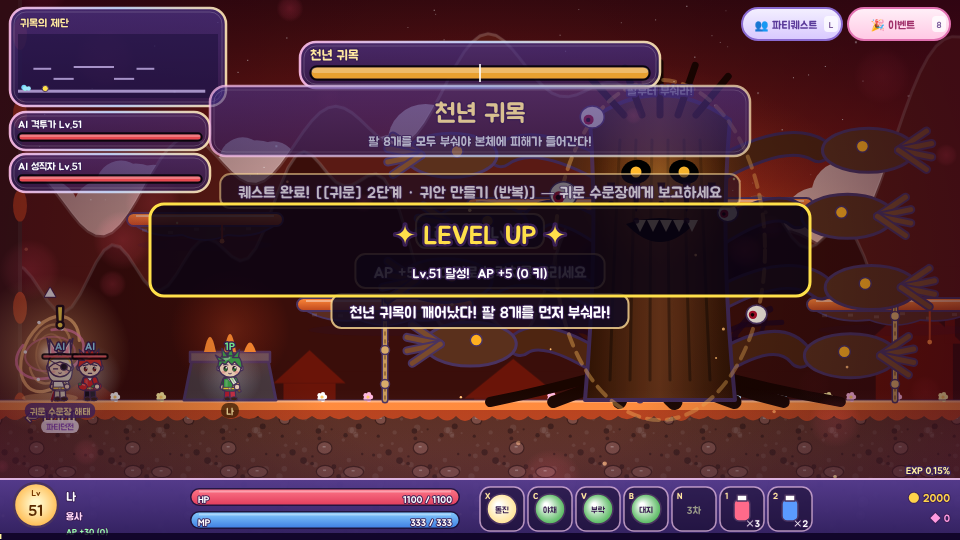
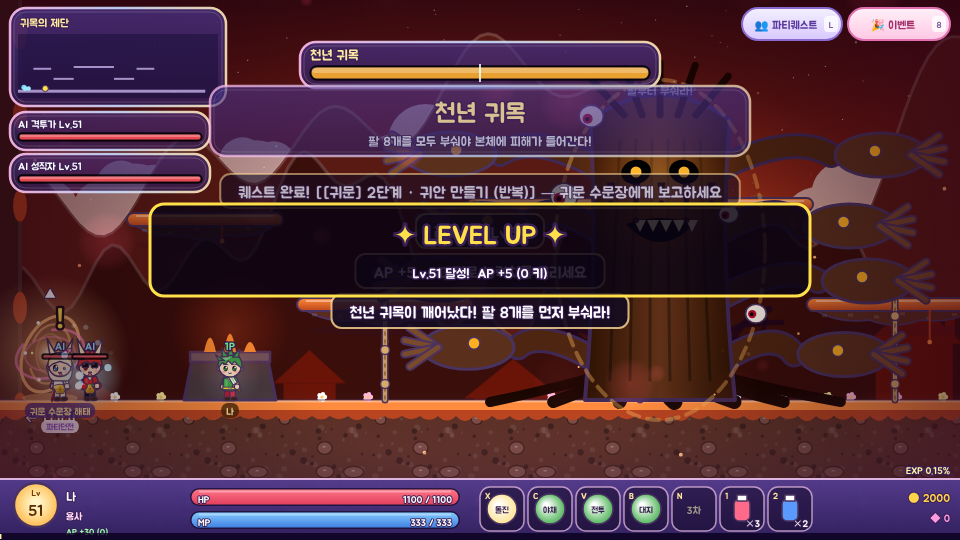
feat(party): 직업 상호작용 — 겹쳐지는 파티 버프(전투 함성·매의 눈·수호 오라·마나 축복·바람걸음), 소환수(거너 팝콘 포탑·성직자 수호 정령), 온라인 파티 코드(같은 맵 파티원 버프·힐 전달, 경험치 +15%/명, 처치 경험치 25% 나눔), 파티 HUD
Claude-Session: https://claude.ai/code/session_017L5bMY4jqJu3Rbzbdg4ZwK

diff --git a/index.html b/index.html
@@ -5937,4 +5937,107 @@ function fixReach(L){
   return L;
 }
 for(const k of Object.keys(MAPS)){const f=MAPS[k];MAPS[k]=function(){return fixReach(f.apply(this,arguments))}}
+/* ============================================================
+   PARTY : 직업 간 상호작용 — 파티 버프(겹쳐짐) · 소환수(거너 포탑 / 성직자 수호 정령)
+           온라인 파티(파티 코드) : 같은 맵 파티원에게 버프·힐 전달, 경험치 보너스, 처치 경험치 나눔
+   ============================================================ */
+/* ---------- 스킬 재설계 : 서로 필요한 직업 ---------- */
+Object.assign(JOB.warrior.sk[2],{n:'전투 함성',party:1,atk:1.35,spd:1.1,def:0,dur:12,mp:36,cd:26,desc:'파티 공격력 +35%'});
+Object.assign(JOB.archer.sk[2],{n:'매의 눈',party:1,atk:1.25,spd:1.15,dur:12,mp:32,cd:24,desc:'파티 공격력 +25% · 공속/이속 +15%'});
+Object.assign(JOB.guardian.sk[2],{n:'수호 오라',party:1,atk:1.1,spd:1,def:.4,dur:12,mp:36,cd:26,desc:'파티 받는 피해 -40%'});
+Object.assign(JOB.mage.sk[2],{n:'마나 축복',party:1,atk:1.2,spd:1,mpr:5,dur:14,mp:30,cd:26,desc:'파티 MP 회복 +5/초 · 공격력 +20%'});
+Object.assign(JOB.rogue.sk[2],{n:'바람걸음',party:1,atk:1.15,spd:1.3,def:.1,dur:12,mp:30,cd:24,desc:'파티 이동속도 +30%'});
+Object.assign(JOB.fighter.sk[2],{desc:'자신 공격력 +60% (파티 버프와 겹쳐짐)'});
+JOB.gunner.sk[2]={n:'팝콘 포탑',k:'summon',kind:'turret',dur:20,m:.75,int:.45,range:440,mp:30,cd:22,desc:'20초 동안 자동 사격하는 포탑 설치'};
+JOB.priest.sk[3]={n:'수호 정령',k:'summon',kind:'spirit',dur:24,m:1.0,int:.9,range:400,heal:.06,mp:36,cd:26,desc:'따라다니며 공격 · 2초마다 파티 회복'};
+
+/* ---------- 겹쳐지는 버프 ---------- */
+function addBuff(q,key,b,from){
+  q.buffs=q.buffs||{};q.buffs[key]={atk:b.atk||1,spd:b.spd||1,def:b.def||0,mpr:b.mpr||0,t:b.dur||10,n:b.n||'',from:from||''};
+  S.fx.push({k:'ring',x:q.x,y:q.y-20,r:60,t:0,max:.45,col:'#ffd34a'});spark(q.x,q.y-30,10,'#ffe9a0',160,.4,3,0,true);
+}
+function buffStep(dt){
+  for(const p of PARTY){if(!p.buffs)continue;let a=1,s=1,d=0,m=0,t=0,n=0;
+    for(const k in p.buffs){const b=p.buffs[k];b.t-=dt;if(b.t<=0||p.dead){delete p.buffs[k];continue}a*=b.atk;s*=b.spd;d+=b.def;m+=b.mpr;t=Math.max(t,b.t);n++}
+    if(n)p.buff={atk:a,spd:s,def:Math.min(.6,d),mpr:m,t,combo:1};else if(p.buff&&p.buff.combo)p.buff=null}
+}
+const onlineParty=()=>{if(!EVPT||!S)return[];const o=[];for(const k in PEERS){const q=PEERS[k];if(q.tg.pt===EVPT&&q.tg.map===S.id)o.push(Object.assign({id:k},q))}return o};
+SKX.buff=function(p,sk){
+  sfx('skill');ftext(p.x,p.y-96,sk.n,'#ffe9a0',15,.9);
+  const b={atk:sk.atk,spd:sk.spd,def:sk.def,mpr:sk.mpr,dur:sk.dur,n:sk.n};
+  const tg=sk.party?PARTY.filter(q=>!q.dead&&(!S.L.pvp||q.team===p.team)&&Math.hypot(q.x-p.x,q.y-p.y)<700):[p];
+  for(const q of tg)addBuff(q,p.job+':'+sk.n,b,p===q?'':JOB[p.job].role);
+  if(sk.party&&p===PARTY[0]&&onlineParty().length){wsSend({t:'pb',b,k:p.job+':'+sk.n,x:p.x,y:p.y});ftext(p.x,p.y-116,'🌐 파티 버프!','#9affc0',13,1)}
+};
+/* ---------- 소환수 ---------- */
+let SUMS=[];
+SKX.summon=function(p,sk){
+  sfx('skill');ftext(p.x,p.y-96,sk.n,'#ffe9a0',15,.9);
+  SUMS=SUMS.filter(s=>!(s.owner===p&&s.kind===sk.kind));
+  const s={owner:p,kind:sk.kind,sk,x:p.x+p.face*46,y:sk.kind==='turret'?p.y:p.y-70,t:sk.dur,cd:.3,hcd:2,face:p.face,ph:Math.random()*6};
+  SUMS.push(s);spark(s.x,s.y-20,24,sk.kind==='turret'?'#ffd34a':'#fff7c0',220,.5,4,0,true);S.fx.push({k:'ring',x:s.x,y:s.y-16,r:70,t:0,max:.4,col:'#fff'});
+};
+function sumStep(dt){
+  if(!SUMS.length)return;
+  for(const s of SUMS){const p=s.owner;s.t-=dt;s.cd-=dt;s.hcd-=dt;
+    if(s.kind==='spirit'){const tx=p.x-p.face*40,ty=p.y-74+Math.sin(G.t*3+s.ph)*6;s.x+=(tx-s.x)*Math.min(1,dt*4);s.y+=(ty-s.y)*Math.min(1,dt*4);s.face=p.face}
+    // 공격
+    if(s.cd<=0){let best=null,bd=s.sk.range;eachTarget(t=>{const r=rectOf(t),d=Math.hypot(r.x+r.w/2-s.x,r.y+r.h/2-(s.y-20));if(d<bd&&!t.dead&&t.type!=='peer'){bd=d;best=t}},p);
+      if(best){s.cd=s.sk.int;const r=rectOf(best),dx=r.x+r.w/2-s.x,dy=r.y+r.h/2-(s.y-22),L=Math.hypot(dx,dy)||1,sp=760;s.face=dx>0?1:-1;
+        S.pshots.push({owner:p,x:s.x+s.face*14,y:s.y-22,vx:dx/L*sp,vy:dy/L*sp,w:16,h:16,dmg:atkOf(p)*s.sk.m,pierce:0,life:.9,kind:s.kind==='turret'?'kernel':'holy',homing:s.kind==='spirit'?1:0,grav:0,hit:new Set(),rot:0,delay:0});
+        if(s.kind==='turret'){sfx('throw');if(typeof fxPush==='function')fxPush({k:'muzzle',x:s.x+s.face*16,y:s.y-24,col:'#ffd34a',max:.12,f:s.face})}}else s.cd=.2}
+    // 정령의 회복
+    if(s.kind==='spirit'&&s.hcd<=0){s.hcd=2;let any=0;for(const q of PARTY)if(!q.dead&&Math.hypot(q.x-s.x,q.y-s.y)<s.sk.range){healPlayer(q,q.maxhp*s.sk.heal);any=1}
+      if(any)S.fx.push({k:'ring',x:s.x,y:s.y,r:s.sk.range*.5,t:0,max:.5,col:'#8affb0'});
+      if(p===PARTY[0])for(const o of onlineParty())if(Math.hypot(o.x-s.x,o.y-s.y)<s.sk.range)wsSend({t:'heal',to:o.id,v:s.sk.heal})}
+  }
+  SUMS=SUMS.filter(s=>s.t>0&&!s.owner.dead&&PARTY.includes(s.owner));
+}
+function drawSummons(g,t){
+  for(const s of SUMS){const fade=Math.min(1,s.t*2);g.save();g.globalAlpha=fade;
+    if(s.kind==='turret'){const x=s.x,y=s.y;ell(g,x,y-1,18,4,'rgba(0,0,0,.2)');
+      g.fillStyle='#c0283c';g.beginPath();g.roundRect(x-14,y-22,28,22,4);g.fill();g.lineWidth=2;g.strokeStyle=O_;g.stroke();
+      g.fillStyle='#fff';for(let i=0;i<3;i++)g.fillRect(x-12+i*9,y-22,5,22);g.strokeRect(x-14,y-22,28,22);
+      g.save();g.translate(x,y-26);g.rotate(s.face>0?0:Math.PI);g.fillStyle='#8a8aa0';g.beginPath();g.roundRect(0,-5,22,10,3);g.fill();g.stroke();g.restore();
+      for(let i=0;i<4;i++){const k=(t*2+i/4)%1;circ(g,x-8+i*5,y-34-k*14,3.2,'#fff6c0',O_,1)}
+    }else{const x=s.x,y=s.y,gl=g.createRadialGradient(x,y-20,2,x,y-20,34);gl.addColorStop(0,'rgba(255,250,200,.7)');gl.addColorStop(1,'rgba(255,250,200,0)');g.fillStyle=gl;g.fillRect(x-34,y-54,68,68);
+      for(const sd of[-1,1]){g.save();g.translate(x+sd*10,y-22);g.rotate(sd*(.4+Math.sin(t*12)*.3));ell(g,sd*8,0,10,5,'rgba(255,255,255,.85)',O_,1.2);g.restore()}
+      g.beginPath();g.moveTo(x,y-38);g.quadraticCurveTo(x+14,y-30,x+12,y-16);g.quadraticCurveTo(x,y-6,x-12,y-16);g.quadraticCurveTo(x-14,y-30,x,y-38);g.fillStyle='#fffaf0';g.fill();g.lineWidth=2;g.strokeStyle=O_;g.stroke();
+      for(const sd of[-1,1])circ(g,x+sd*4,y-22,1.6,'#2a1a30');g.strokeStyle=O_;g.lineWidth=1.2;g.beginPath();g.arc(x,y-19,2.4,.3,2.8);g.stroke();
+      g.strokeStyle='#ffe04a';g.lineWidth=2;g.beginPath();g.ellipse(x,y-44,9,3,0,0,6.28);g.stroke()}
+    bar(g,s.x-14,s.y+4,28,3,s.t/s.sk.dur,'#ffe04a');g.restore()}
+}
+{const _st=drawSelfTag;drawSelfTag=function(g){drawSummons(g,G.t);_st(g)}}
+{const _rs=respawnStep;respawnStep=function(dt){_rs(dt);buffStep(dt);sumStep(dt)}}
+{const _lm=loadMap;loadMap=function(id,end){SUMS=[];_lm(id,end)}}
+
+/* ---------- 온라인 파티 : 경험치 보너스 · 처치 경험치 나눔 · 버프/힐 받기 ---------- */
+const partyExpBonus=()=>Math.min(.5,onlineParty().length*.15);
+const _gainExpP=gainExp;
+gainExp=function(n,mob){if(mob&&n>0){const b=partyExpBonus();if(b>0)n=Math.round(n*(1+b))}return _gainExpP(n,mob)};
+{const _km=killMob;killMob=function(m){const had=!m.dead&&m.type!=='peer';_km(m);if(had&&m.dead&&m.exp>0&&onlineParty().length)wsSend({t:'kx',e:Math.max(1,Math.round(m.exp*.25)),x:m.x})}}
+{const _em=evMsg;evMsg=function(raw){_em(raw);let o;try{o=JSON.parse(raw)}catch(_){return}const p=PARTY[0];if(!p||!S)return;
+  if(o.t==='pb'){if(Math.hypot((o.x||0)-p.x,(o.y||0)-p.y)>760)return;addBuff(p,o.k,o.b,o.fname);ftext(p.x,p.y-110,(o.fname||'파티원')+' 의 '+(o.b.n||'버프'),'#ffe9a0',13,1.2)}
+  else if(o.t==='kx'){if(Math.hypot((o.x||0)-p.x,0)>1400)return;_gainExpP(o.e|0);ftext(p.x,p.y-80,'파티 경험치 +'+o.e,'#9affc0',12,.8)}
+  else if(o.t==='healed'&&!S.L.arenaEv){if(!p.dead){healPlayer(p,p.maxhp*Math.min(.8,+o.v||0));ftext(p.x,p.y-96,(o.fname||'파티원')+' 의 치유','#8affb0',13,1)}}}}
+// 성직자의 힐도 온라인 파티원에게 (쟁탈전 밖에서도)
+{const _cs=castSkill;castSkill=function(p,i){const before=p.cds[i];const r=_cs(p,i);const sk=JOB[p.job].sk[i];
+  if(p===PARTY[0]&&sk&&sk.k==='heal'&&p.cds[i]>0&&before<=0&&!S.L.arenaEv)for(const o of onlineParty())if(Math.hypot(o.x-p.x,o.y-p.y)<560)wsSend({t:'heal',to:o.id,v:sk.m});return r}}
+
+/* ---------- 파티 메뉴 · HUD ---------- */
+function setPartyCode(after){const v=(prompt('같은 파티 코드를 입력한 사람끼리 온라인 파티가 돼요\n(같은 맵에서 버프·힐 공유 · 경험치 보너스 · 처치 경험치 나눔)\n비워두면 파티 탈퇴','')||'').trim().slice(0,10);EVPT=v;try{localStorage.setItem('cgdd_team',v)}catch(e){}sysChat(v?'🌐 온라인 파티 「'+v+'」 참가!':'온라인 파티에서 나왔어요');after&&after()}
+{const _pm=partyMenu;partyMenu=function(n){_pm(n);if(!G.dlg)return;G.dlg.opts.splice(G.dlg.opts.length-1,0,{t:'🌐 온라인 파티 코드: '+(EVPT||'(없음)')+' — 바꾸기',fn:()=>setPartyCode(()=>partyMenu(n))});
+  G.dlg.text='파티를 꾸려보자! 현재 '+PARTY.length+'명.\n\n🌐 온라인 파티: 같은 파티 코드를 쓴 사람끼리 같은 맵에 있으면 버프·힐이 서로에게 들어가고,\n   경험치 +15%/명 (최대 +50%) · 파티원이 잡은 몬스터 경험치 25%를 나눠 받아요.\n🙋 AI 동료·2P 로컬도 함께 할 수 있어요.\n\n직업 궁합: 전사 함성(공격) · 수호자 오라(방어) · 궁수 매의 눈 · 마법사 마나 축복 · 암살자 바람걸음 · 성직자 힐·결계·정령 · 거너 포탑'}}
+{const _em=eventMenu;eventMenu=function(){_em();if(G.dlg)for(const o of G.dlg.opts)if(o.t.startsWith('🤝 팀 코드')){o.t='🌐 파티 코드: '+(EVPT||'(없음 · 개인전)')+'  — 바꾸기';o.fn=()=>setPartyCode(eventMenu)}}}
+function drawOnlineParty(g,t){
+  if(!EVPT||!S||!PARTY[0])return;const op=onlineParty(),y0=H-112-op.length*26;
+  panel(g,8,y0-6,190,24+op.length*26,.62);
+  txt(g,'🌐 파티 「'+EVPT+'」'+(op.length?'  경험치 +'+Math.round(partyExpBonus()*100)+'%':'  (같은 맵에 없음)'),14,y0+10,12,'#9affc0','left',2);
+  op.forEach((o,i)=>{const y=y0+18+i*26;txt(g,o.tg.name+' · '+(JOB[o.tg.j]?JOB[o.tg.j].role:'')+' Lv.'+o.tg.lv,14,y+10,11,'#fff','left',2);bar(g,14,y+14,170,5,(o.tg.h==null?100:o.tg.h)/100,'#5ad87a')});
+  // 받은 버프 아이콘
+  const p=PARTY[0];if(p.buffs){let i=0;for(const k in p.buffs){const b=p.buffs[k];txt(g,'✦'+(b.n||'')+' '+Math.ceil(b.t)+'s',W-14,H-150-i*16,11,'#ffe9a0','right',2);i++}}
+}
+{const _dh=drawHUD;drawHUD=function(g,t){_dh(g,t);drawOnlineParty(g,t)}}
+// 스킬 설명에 desc 표시
+{const _ji=typeof jobInfoDialog==='function'?jobInfoDialog:null;if(_ji)jobInfoDialog=function(n){_ji(n);if(G.dlg)G.dlg.text=G.dlg.text.replace(/\[(\w)\] ([^(\n]+)\(/g,(m,k,nm)=>{const sk=JOB[SAVE.job].sk.find(s=>s.n===nm.trim());return sk&&sk.desc?'['+k+'] '+nm+'— '+sk.desc+' (':m})}}
 </script></body></html>

diff --git a/parts/26_party.js b/parts/26_party.js
@@ -1,0 +1,103 @@
+/* ============================================================
+   PARTY : 직업 간 상호작용 — 파티 버프(겹쳐짐) · 소환수(거너 포탑 / 성직자 수호 정령)
+           온라인 파티(파티 코드) : 같은 맵 파티원에게 버프·힐 전달, 경험치 보너스, 처치 경험치 나눔
+   ============================================================ */
+/* ---------- 스킬 재설계 : 서로 필요한 직업 ---------- */
+Object.assign(JOB.warrior.sk[2],{n:'전투 함성',party:1,atk:1.35,spd:1.1,def:0,dur:12,mp:36,cd:26,desc:'파티 공격력 +35%'});
+Object.assign(JOB.archer.sk[2],{n:'매의 눈',party:1,atk:1.25,spd:1.15,dur:12,mp:32,cd:24,desc:'파티 공격력 +25% · 공속/이속 +15%'});
+Object.assign(JOB.guardian.sk[2],{n:'수호 오라',party:1,atk:1.1,spd:1,def:.4,dur:12,mp:36,cd:26,desc:'파티 받는 피해 -40%'});
+Object.assign(JOB.mage.sk[2],{n:'마나 축복',party:1,atk:1.2,spd:1,mpr:5,dur:14,mp:30,cd:26,desc:'파티 MP 회복 +5/초 · 공격력 +20%'});
+Object.assign(JOB.rogue.sk[2],{n:'바람걸음',party:1,atk:1.15,spd:1.3,def:.1,dur:12,mp:30,cd:24,desc:'파티 이동속도 +30%'});
+Object.assign(JOB.fighter.sk[2],{desc:'자신 공격력 +60% (파티 버프와 겹쳐짐)'});
+JOB.gunner.sk[2]={n:'팝콘 포탑',k:'summon',kind:'turret',dur:20,m:.75,int:.45,range:440,mp:30,cd:22,desc:'20초 동안 자동 사격하는 포탑 설치'};
+JOB.priest.sk[3]={n:'수호 정령',k:'summon',kind:'spirit',dur:24,m:1.0,int:.9,range:400,heal:.06,mp:36,cd:26,desc:'따라다니며 공격 · 2초마다 파티 회복'};
+
+/* ---------- 겹쳐지는 버프 ---------- */
+function addBuff(q,key,b,from){
+  q.buffs=q.buffs||{};q.buffs[key]={atk:b.atk||1,spd:b.spd||1,def:b.def||0,mpr:b.mpr||0,t:b.dur||10,n:b.n||'',from:from||''};
+  S.fx.push({k:'ring',x:q.x,y:q.y-20,r:60,t:0,max:.45,col:'#ffd34a'});spark(q.x,q.y-30,10,'#ffe9a0',160,.4,3,0,true);
+}
+function buffStep(dt){
+  for(const p of PARTY){if(!p.buffs)continue;let a=1,s=1,d=0,m=0,t=0,n=0;
+    for(const k in p.buffs){const b=p.buffs[k];b.t-=dt;if(b.t<=0||p.dead){delete p.buffs[k];continue}a*=b.atk;s*=b.spd;d+=b.def;m+=b.mpr;t=Math.max(t,b.t);n++}
+    if(n)p.buff={atk:a,spd:s,def:Math.min(.6,d),mpr:m,t,combo:1};else if(p.buff&&p.buff.combo)p.buff=null}
+}
+const onlineParty=()=>{if(!EVPT||!S)return[];const o=[];for(const k in PEERS){const q=PEERS[k];if(q.tg.pt===EVPT&&q.tg.map===S.id)o.push(Object.assign({id:k},q))}return o};
+SKX.buff=function(p,sk){
+  sfx('skill');ftext(p.x,p.y-96,sk.n,'#ffe9a0',15,.9);
+  const b={atk:sk.atk,spd:sk.spd,def:sk.def,mpr:sk.mpr,dur:sk.dur,n:sk.n};
+  const tg=sk.party?PARTY.filter(q=>!q.dead&&(!S.L.pvp||q.team===p.team)&&Math.hypot(q.x-p.x,q.y-p.y)<700):[p];
+  for(const q of tg)addBuff(q,p.job+':'+sk.n,b,p===q?'':JOB[p.job].role);
+  if(sk.party&&p===PARTY[0]&&onlineParty().length){wsSend({t:'pb',b,k:p.job+':'+sk.n,x:p.x,y:p.y});ftext(p.x,p.y-116,'🌐 파티 버프!','#9affc0',13,1)}
+};
+/* ---------- 소환수 ---------- */
+let SUMS=[];
+SKX.summon=function(p,sk){
+  sfx('skill');ftext(p.x,p.y-96,sk.n,'#ffe9a0',15,.9);
+  SUMS=SUMS.filter(s=>!(s.owner===p&&s.kind===sk.kind));
+  const s={owner:p,kind:sk.kind,sk,x:p.x+p.face*46,y:sk.kind==='turret'?p.y:p.y-70,t:sk.dur,cd:.3,hcd:2,face:p.face,ph:Math.random()*6};
+  SUMS.push(s);spark(s.x,s.y-20,24,sk.kind==='turret'?'#ffd34a':'#fff7c0',220,.5,4,0,true);S.fx.push({k:'ring',x:s.x,y:s.y-16,r:70,t:0,max:.4,col:'#fff'});
+};
+function sumStep(dt){
+  if(!SUMS.length)return;
+  for(const s of SUMS){const p=s.owner;s.t-=dt;s.cd-=dt;s.hcd-=dt;
+    if(s.kind==='spirit'){const tx=p.x-p.face*40,ty=p.y-74+Math.sin(G.t*3+s.ph)*6;s.x+=(tx-s.x)*Math.min(1,dt*4);s.y+=(ty-s.y)*Math.min(1,dt*4);s.face=p.face}
+    // 공격
+    if(s.cd<=0){let best=null,bd=s.sk.range;eachTarget(t=>{const r=rectOf(t),d=Math.hypot(r.x+r.w/2-s.x,r.y+r.h/2-(s.y-20));if(d<bd&&!t.dead&&t.type!=='peer'){bd=d;best=t}},p);
+      if(best){s.cd=s.sk.int;const r=rectOf(best),dx=r.x+r.w/2-s.x,dy=r.y+r.h/2-(s.y-22),L=Math.hypot(dx,dy)||1,sp=760;s.face=dx>0?1:-1;
+        S.pshots.push({owner:p,x:s.x+s.face*14,y:s.y-22,vx:dx/L*sp,vy:dy/L*sp,w:16,h:16,dmg:atkOf(p)*s.sk.m,pierce:0,life:.9,kind:s.kind==='turret'?'kernel':'holy',homing:s.kind==='spirit'?1:0,grav:0,hit:new Set(),rot:0,delay:0});
+        if(s.kind==='turret'){sfx('throw');if(typeof fxPush==='function')fxPush({k:'muzzle',x:s.x+s.face*16,y:s.y-24,col:'#ffd34a',max:.12,f:s.face})}}else s.cd=.2}
+    // 정령의 회복
+    if(s.kind==='spirit'&&s.hcd<=0){s.hcd=2;let any=0;for(const q of PARTY)if(!q.dead&&Math.hypot(q.x-s.x,q.y-s.y)<s.sk.range){healPlayer(q,q.maxhp*s.sk.heal);any=1}
+      if(any)S.fx.push({k:'ring',x:s.x,y:s.y,r:s.sk.range*.5,t:0,max:.5,col:'#8affb0'});
+      if(p===PARTY[0])for(const o of onlineParty())if(Math.hypot(o.x-s.x,o.y-s.y)<s.sk.range)wsSend({t:'heal',to:o.id,v:s.sk.heal})}
+  }
+  SUMS=SUMS.filter(s=>s.t>0&&!s.owner.dead&&PARTY.includes(s.owner));
+}
+function drawSummons(g,t){
+  for(const s of SUMS){const fade=Math.min(1,s.t*2);g.save();g.globalAlpha=fade;
+    if(s.kind==='turret'){const x=s.x,y=s.y;ell(g,x,y-1,18,4,'rgba(0,0,0,.2)');
+      g.fillStyle='#c0283c';g.beginPath();g.roundRect(x-14,y-22,28,22,4);g.fill();g.lineWidth=2;g.strokeStyle=O_;g.stroke();
+      g.fillStyle='#fff';for(let i=0;i<3;i++)g.fillRect(x-12+i*9,y-22,5,22);g.strokeRect(x-14,y-22,28,22);
+      g.save();g.translate(x,y-26);g.rotate(s.face>0?0:Math.PI);g.fillStyle='#8a8aa0';g.beginPath();g.roundRect(0,-5,22,10,3);g.fill();g.stroke();g.restore();
+      for(let i=0;i<4;i++){const k=(t*2+i/4)%1;circ(g,x-8+i*5,y-34-k*14,3.2,'#fff6c0',O_,1)}
+    }else{const x=s.x,y=s.y,gl=g.createRadialGradient(x,y-20,2,x,y-20,34);gl.addColorStop(0,'rgba(255,250,200,.7)');gl.addColorStop(1,'rgba(255,250,200,0)');g.fillStyle=gl;g.fillRect(x-34,y-54,68,68);
+      for(const sd of[-1,1]){g.save();g.translate(x+sd*10,y-22);g.rotate(sd*(.4+Math.sin(t*12)*.3));ell(g,sd*8,0,10,5,'rgba(255,255,255,.85)',O_,1.2);g.restore()}
+      g.beginPath();g.moveTo(x,y-38);g.quadraticCurveTo(x+14,y-30,x+12,y-16);g.quadraticCurveTo(x,y-6,x-12,y-16);g.quadraticCurveTo(x-14,y-30,x,y-38);g.fillStyle='#fffaf0';g.fill();g.lineWidth=2;g.strokeStyle=O_;g.stroke();
+      for(const sd of[-1,1])circ(g,x+sd*4,y-22,1.6,'#2a1a30');g.strokeStyle=O_;g.lineWidth=1.2;g.beginPath();g.arc(x,y-19,2.4,.3,2.8);g.stroke();
+      g.strokeStyle='#ffe04a';g.lineWidth=2;g.beginPath();g.ellipse(x,y-44,9,3,0,0,6.28);g.stroke()}
+    bar(g,s.x-14,s.y+4,28,3,s.t/s.sk.dur,'#ffe04a');g.restore()}
+}
+{const _st=drawSelfTag;drawSelfTag=function(g){drawSummons(g,G.t);_st(g)}}
+{const _rs=respawnStep;respawnStep=function(dt){_rs(dt);buffStep(dt);sumStep(dt)}}
+{const _lm=loadMap;loadMap=function(id,end){SUMS=[];_lm(id,end)}}
+
+/* ---------- 온라인 파티 : 경험치 보너스 · 처치 경험치 나눔 · 버프/힐 받기 ---------- */
+const partyExpBonus=()=>Math.min(.5,onlineParty().length*.15);
+const _gainExpP=gainExp;
+gainExp=function(n,mob){if(mob&&n>0){const b=partyExpBonus();if(b>0)n=Math.round(n*(1+b))}return _gainExpP(n,mob)};
+{const _km=killMob;killMob=function(m){const had=!m.dead&&m.type!=='peer';_km(m);if(had&&m.dead&&m.exp>0&&onlineParty().length)wsSend({t:'kx',e:Math.max(1,Math.round(m.exp*.25)),x:m.x})}}
+{const _em=evMsg;evMsg=function(raw){_em(raw);let o;try{o=JSON.parse(raw)}catch(_){return}const p=PARTY[0];if(!p||!S)return;
+  if(o.t==='pb'){if(Math.hypot((o.x||0)-p.x,(o.y||0)-p.y)>760)return;addBuff(p,o.k,o.b,o.fname);ftext(p.x,p.y-110,(o.fname||'파티원')+' 의 '+(o.b.n||'버프'),'#ffe9a0',13,1.2)}
+  else if(o.t==='kx'){if(Math.hypot((o.x||0)-p.x,0)>1400)return;_gainExpP(o.e|0);ftext(p.x,p.y-80,'파티 경험치 +'+o.e,'#9affc0',12,.8)}
+  else if(o.t==='healed'&&!S.L.arenaEv){if(!p.dead){healPlayer(p,p.maxhp*Math.min(.8,+o.v||0));ftext(p.x,p.y-96,(o.fname||'파티원')+' 의 치유','#8affb0',13,1)}}}}
+// 성직자의 힐도 온라인 파티원에게 (쟁탈전 밖에서도)
+{const _cs=castSkill;castSkill=function(p,i){const before=p.cds[i];const r=_cs(p,i);const sk=JOB[p.job].sk[i];
+  if(p===PARTY[0]&&sk&&sk.k==='heal'&&p.cds[i]>0&&before<=0&&!S.L.arenaEv)for(const o of onlineParty())if(Math.hypot(o.x-p.x,o.y-p.y)<560)wsSend({t:'heal',to:o.id,v:sk.m});return r}}
+
+/* ---------- 파티 메뉴 · HUD ---------- */
+function setPartyCode(after){const v=(prompt('같은 파티 코드를 입력한 사람끼리 온라인 파티가 돼요\n(같은 맵에서 버프·힐 공유 · 경험치 보너스 · 처치 경험치 나눔)\n비워두면 파티 탈퇴','')||'').trim().slice(0,10);EVPT=v;try{localStorage.setItem('cgdd_team',v)}catch(e){}sysChat(v?'🌐 온라인 파티 「'+v+'」 참가!':'온라인 파티에서 나왔어요');after&&after()}
+{const _pm=partyMenu;partyMenu=function(n){_pm(n);if(!G.dlg)return;G.dlg.opts.splice(G.dlg.opts.length-1,0,{t:'🌐 온라인 파티 코드: '+(EVPT||'(없음)')+' — 바꾸기',fn:()=>setPartyCode(()=>partyMenu(n))});
+  G.dlg.text='파티를 꾸려보자! 현재 '+PARTY.length+'명.\n\n🌐 온라인 파티: 같은 파티 코드를 쓴 사람끼리 같은 맵에 있으면 버프·힐이 서로에게 들어가고,\n   경험치 +15%/명 (최대 +50%) · 파티원이 잡은 몬스터 경험치 25%를 나눠 받아요.\n🙋 AI 동료·2P 로컬도 함께 할 수 있어요.\n\n직업 궁합: 전사 함성(공격) · 수호자 오라(방어) · 궁수 매의 눈 · 마법사 마나 축복 · 암살자 바람걸음 · 성직자 힐·결계·정령 · 거너 포탑'}}
+{const _em=eventMenu;eventMenu=function(){_em();if(G.dlg)for(const o of G.dlg.opts)if(o.t.startsWith('🤝 팀 코드')){o.t='🌐 파티 코드: '+(EVPT||'(없음 · 개인전)')+'  — 바꾸기';o.fn=()=>setPartyCode(eventMenu)}}}
+function drawOnlineParty(g,t){
+  if(!EVPT||!S||!PARTY[0])return;const op=onlineParty(),y0=H-112-op.length*26;
+  panel(g,8,y0-6,190,24+op.length*26,.62);
+  txt(g,'🌐 파티 「'+EVPT+'」'+(op.length?'  경험치 +'+Math.round(partyExpBonus()*100)+'%':'  (같은 맵에 없음)'),14,y0+10,12,'#9affc0','left',2);
+  op.forEach((o,i)=>{const y=y0+18+i*26;txt(g,o.tg.name+' · '+(JOB[o.tg.j]?JOB[o.tg.j].role:'')+' Lv.'+o.tg.lv,14,y+10,11,'#fff','left',2);bar(g,14,y+14,170,5,(o.tg.h==null?100:o.tg.h)/100,'#5ad87a')});
+  // 받은 버프 아이콘
+  const p=PARTY[0];if(p.buffs){let i=0;for(const k in p.buffs){const b=p.buffs[k];txt(g,'✦'+(b.n||'')+' '+Math.ceil(b.t)+'s',W-14,H-150-i*16,11,'#ffe9a0','right',2);i++}}
+}
+{const _dh=drawHUD;drawHUD=function(g,t){_dh(g,t);drawOnlineParty(g,t)}}
+// 스킬 설명에 desc 표시
+{const _ji=typeof jobInfoDialog==='function'?jobInfoDialog:null;if(_ji)jobInfoDialog=function(n){_ji(n);if(G.dlg)G.dlg.text=G.dlg.text.replace(/\[(\w)\] ([^(\n]+)\(/g,(m,k,nm)=>{const sk=JOB[SAVE.job].sk.find(s=>s.n===nm.trim());return sk&&sk.desc?'['+k+'] '+nm+'— '+sk.desc+' (':m})}}

diff --git a/server/server.js b/server/server.js
@@ -202,6 +202,22 @@ function attachPresence(server) {
       }
       if (m.t === 'whoami') { try { ws.send(JSON.stringify({ t: 'you', id: ws.id })); } catch {} return; }
       if (m.t === 'rd') { raidDamage(ws, m); return; }
+      if (m.t === 'pb' || m.t === 'kx') {
+        if (!ws.st || !ws.st.pt) return;
+        const now = Date.now(); if (now - ws.hb.t > 1000) ws.hb = { t: now, n: 0 }; if (++ws.hb.n > 20) return;
+        const o = m.t === 'pb'
+          ? { t: 'pb', k: String(m.k || '').slice(0, 30), x: num(m.x, -1e4, 1e5), y: num(m.y, -1e4, 1e5), fname: ws.name,
+              b: { atk: num(m.b && m.b.atk, 1, 1.6), spd: num(m.b && m.b.spd, 1, 1.4), def: num(m.b && m.b.def, 0, .5), mpr: num(m.b && m.b.mpr, 0, 6), dur: num(m.b && m.b.dur, 1, 15), n: String(m.b && m.b.n || '').slice(0, 12) } }
+          : { t: 'kx', e: Math.round(num(m.e, 0, 1e7)), x: num(m.x, -1e4, 1e5), fname: ws.name };
+        const s2 = JSON.stringify(o);
+        for (const c of wss.clients) if (c !== ws && c.readyState === 1 && c.st && c.st.pt === ws.st.pt && c.st.map === ws.st.map) c.send(s2);
+        return;
+      }
+      if (m.t === 'heal' && ws.st && ws.st.map !== 'ev_arena') {
+        let tg = null; for (const c of wss.clients) if (c.id === m.to) { tg = c; break; }
+        if (tg && tg.readyState === 1 && tg.st && ws.st.pt && tg.st.pt === ws.st.pt && tg.st.map === ws.st.map) tg.send(JSON.stringify({ t: 'healed', v: num(m.v, 0, .8), fname: ws.name }));
+        return;
+      }
       if (m.t === 'hit' || m.t === 'heal') {
         if (!ws.st || ws.st.map !== 'ev_arena') return;
         const now = Date.now(); if (now - ws.hb.t > 1000) ws.hb = { t: now, n: 0 }; if (++ws.hb.n > 20) return;

diff --git a/server/test.js b/server/test.js
@@ -73,6 +73,12 @@ const srv = app.listen(0, async () => {
     a.send(JSON.stringify({ t: 'hit', to: idB, d: 50, dir: 1 })); assert.equal((await hurt).d, 50);
     b.send(JSON.stringify({ t: 'st', map: 'ev_arena', x: 1590, y: 470, pt: 'AA' }));
     const hold = await wait(b, o => o.t === 'ev' && o.arena.hold > 0.5 && !o.arena.contested); assert.equal(hold.arena.tname, 'AA 팀');
+    // 온라인 파티 : 버프·경험치 나눔
+    a.send(JSON.stringify({ t: 'st', map: 'h1', x: 100, y: 470, pt: 'PP' })); b.send(JSON.stringify({ t: 'st', map: 'h1', x: 200, y: 470, pt: 'PP' }));
+    await new Promise(r => setTimeout(r, 150));
+    const pb = wait(b, o => o.t === 'pb'); a.send(JSON.stringify({ t: 'pb', k: 'warrior:함성', x: 100, y: 470, b: { atk: 9, dur: 12, n: '전투 함성' } }));
+    const pbo = await pb; assert.equal(pbo.b.atk, 1.6); assert.equal(pbo.b.n, '전투 함성');
+    const kx = wait(b, o => o.t === 'kx'); a.send(JSON.stringify({ t: 'kx', e: 40, x: 100 })); assert.equal((await kx).e, 40);
     a.close(); b.close();
     console.log('SERVER TESTS OK');
   } catch (e) { console.error('FAIL', e); process.exitCode = 1; } finally { srv.close(); setTimeout(() => process.exit(), 100); }

diff --git a/tests/test_party_synergy.py b/tests/test_party_synergy.py
@@ -1,0 +1,25 @@
+import asyncio, os
+from playwright.async_api import async_playwright
+async def main():
+    async with async_playwright() as p:
+        kw=dict(args=['--no-sandbox','--use-gl=swiftshader'])
+        if os.path.exists('/usr/bin/google-chrome'): kw['executable_path']='/usr/bin/google-chrome'
+        b=await p.chromium.launch(**kw); errs=[]
+        pg=await b.new_page(viewport={'width':960,'height':540}); pg.on('pageerror',lambda e: errs.append(str(e)))
+        await pg.goto('file://'+os.path.abspath('index.html')); await pg.wait_for_timeout(300)
+        print('buff stack',await pg.evaluate("""()=>{const g=__game;g.newGame('warrior');SAVE.lvl=40;SAVE.tier=2;g.goMap('h3',true);const p=PARTY[0];p.tier=2;p.mp=999;
+          addMember('ai','guardian');const a=PARTY[1];a.tier=2;a.mp=999;a.x=p.x+40;a.y=p.y;
+          castSkill(p,2);castSkill(a,2);g.step(1/60);return [Object.keys(p.buffs).length,+p.buff.atk.toFixed(2),+p.buff.def.toFixed(2),Object.keys(a.buffs).length]}"""))
+        print('turret',await pg.evaluate("""()=>{const g=__game;g.newGame('gunner');SAVE.lvl=20;SAVE.tier=1;g.goMap('h2',true);const p=PARTY[0];p.tier=1;p.mp=999;p.inv=99;S.mobs=[];
+          const m=spawnMob('bunny',p.x+200,p.y,{});m.hp=m.max=99999;castSkill(p,2);for(let i=0;i<120;i++)g.step(1/60);return [SUMS.length,SUMS[0]&&SUMS[0].kind,m.max-m.hp>0]}"""))
+        print('spirit',await pg.evaluate("""()=>{const g=__game;g.newGame('priest');SAVE.lvl=40;SAVE.tier=2;g.goMap('h2',true);const p=PARTY[0];p.tier=2;p.mp=999;p.inv=99;S.mobs=[];p.hp=p.maxhp*.3;const h=p.hp;
+          castSkill(p,3);for(let i=0;i<200;i++)g.step(1/60);return [SUMS[0]&&SUMS[0].kind,p.hp>h]}"""))
+        print('online',await pg.evaluate("""()=>{const g=__game;g.newGame('mage');SAVE.lvl=20;g.goMap('h2',true);const p=PARTY[0];EVPT='PP';
+          PEERS['x1']={tg:{id:'x1',map:'h2',x:p.x+30,y:p.y,f:1,s:'idle',j:'warrior',ti:2,fi:1,lv:40,eq:{},h:70,pt:'PP',name:'친구'},x:p.x+30,y:p.y,t:0};
+          const b=partyExpBonus();const e0=SAVE.exp;gainExp(100,{});const e1=SAVE.exp-e0;
+          evMsg(JSON.stringify({t:'pb',k:'warrior:전투 함성',x:p.x,y:p.y,fname:'친구',b:{atk:1.35,spd:1.1,def:0,mpr:0,dur:12,n:'전투 함성'}}));g.step(1/60);
+          const e2=SAVE.exp;evMsg(JSON.stringify({t:'kx',e:30,x:p.x,fname:'친구'}));return [b,e1,+p.buff.atk.toFixed(2),SAVE.exp-e2]}"""))
+        await pg.evaluate("(()=>{const g=__game;G.banner.t=9;G.toasts.length=0;for(let i=0;i<20;i++)g.step(1/60)})()"); await pg.wait_for_timeout(150)
+        await pg.screenshot(path='/tmp/party.png')
+        print(errs or 'NO ERRORS'); await b.close()
+asyncio.run(main())
